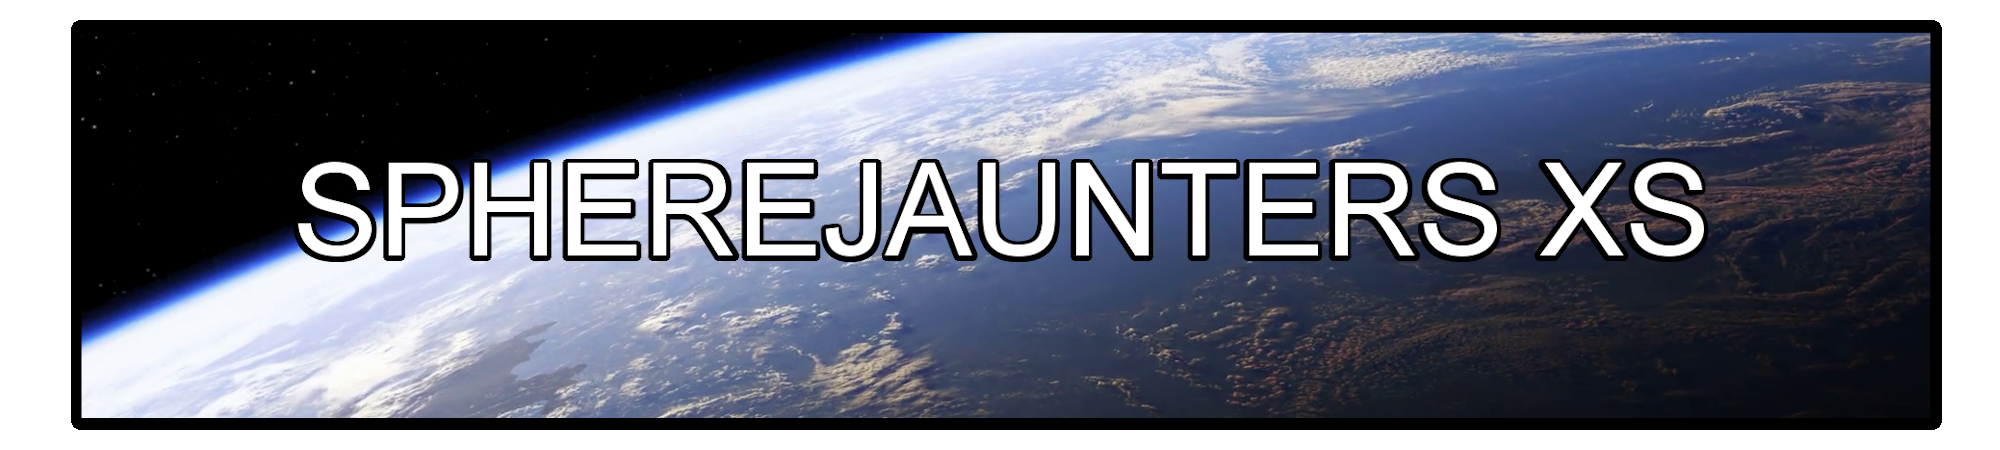
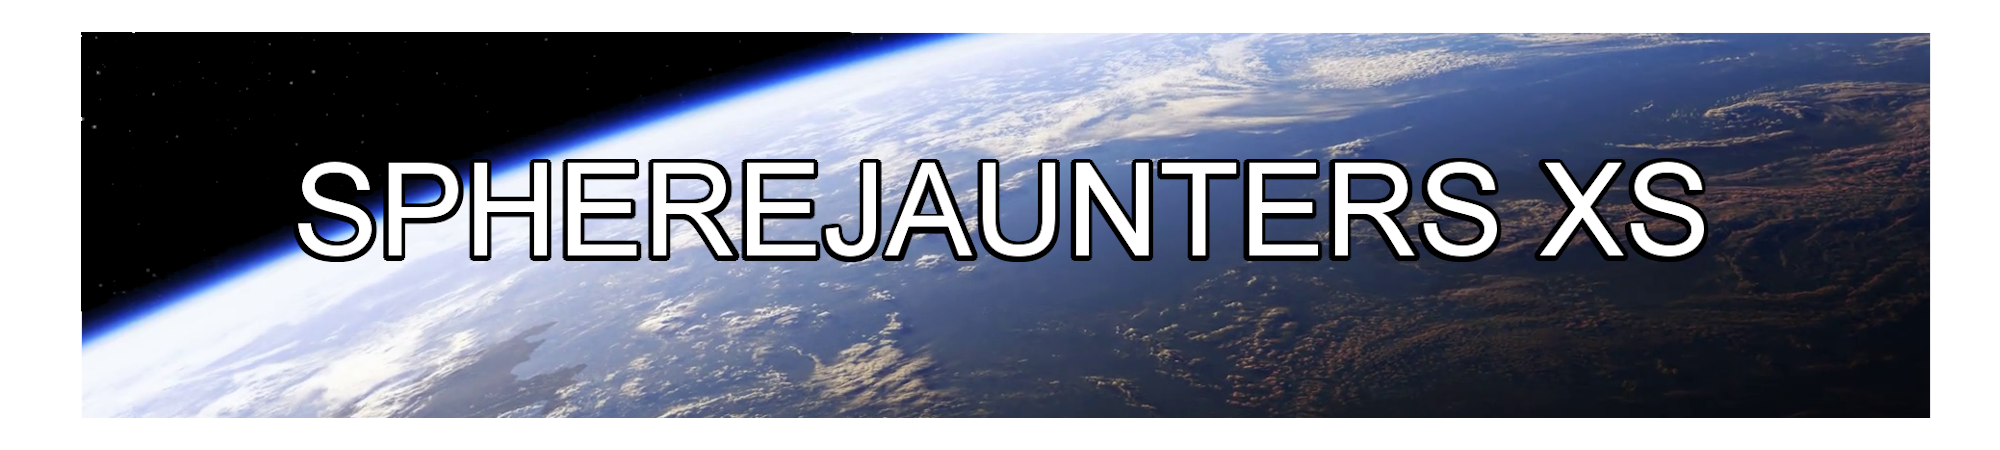
title

Changed region(s): [[0.031, 0.0311, 0.992, 0.9644]]

diff --git a/src/physics/Initialize.js b/src/physics/Initialize.js
@@ -228,7 +228,7 @@ export const load = () => {
 	document.body.appendChild(htmlLoadingText);
 	updateLoaderBar();
 
-	titleTex = getTexture(require('../pics/title2.png'), 15);
+	titleTex = getTexture(require('../pics/title3.png'), 15);
 	titleTex.generateMipmaps = true;
 	titleTex.anisotropy = renderer.getMaxAnisotropy();
 	title = new THREE.Mesh(new THREE.PlaneGeometry(2000,400,32), new THREE.MeshBasicMaterial({map:titleTex, side:THREE.FrontSide, transparent:true}));

diff --git a/src/physics/gameStep.js b/src/physics/gameStep.js
@@ -182,6 +182,7 @@ const getSubmitCoords = () => {
                 header2.id = 'submittedMessage';
                 header2.innerHTML = "Submitted";
                 newHighscore.appendChild(header2);
+                newHighscore.style.display= 'none';
             } else alert('Name must be more than 0 characters');
             // alert('Thank you! Your highscore has been submitted');
         });
